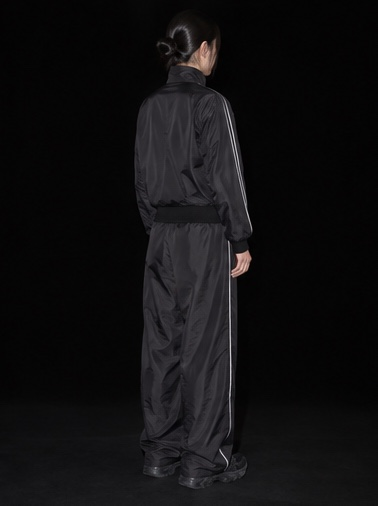
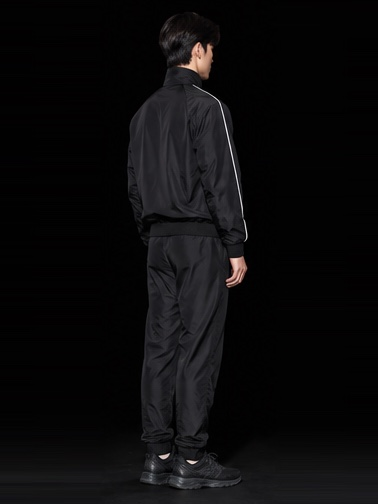
PRODUCT 360: 16-angle model frames with MEN/WOMEN toggle; drop unused mannequin frames

diff --git a/index.html b/index.html
@@ -567,7 +567,13 @@
   .fs-bpm{font-family:'Bebas Neue',sans-serif; font-size:clamp(44px,6vw,84px); line-height:0.9; color:var(--c);}
   .fs-bpm small{font-size:0.32em; letter-spacing:0.12em; margin-left:6px; color:var(--bone-dim);}
   .fs-ph{margin-top:8px; font-size:11px; letter-spacing:0.16em; color:var(--bone);}
-  .fs-grid{display:grid; grid-template-columns:repeat(3,minmax(0,1fr)); gap:20px; margin-top:40px;}
+  .fs-grid{display:grid; grid-template-columns:repeat(3,minmax(0,1fr)); gap:20px; margin-top:18px;}
+  .fs-sex{display:flex; justify-content:flex-end; gap:4px; margin-top:40px;}
+  .fs-sex button{all:unset; cursor:pointer; padding:7px 12px; border:1px solid var(--line); border-radius:999px;
+    font-size:10.5px; letter-spacing:0.16em; color:var(--bone-dim); transition:color 0.25s ease, border-color 0.25s ease, background 0.25s ease;}
+  .fs-sex button:hover{color:var(--bone);}
+  .fs-sex button.on{color:var(--off-black); background:var(--bone); border-color:var(--bone);}
+  .fs-sex button:focus-visible{outline:2px solid var(--bone); outline-offset:3px;}
   .fs-grid .prd{transition:opacity 0.4s ease, transform 0.4s ease;}
   .fs.pick .prd:not(.on){opacity:0.22;}
   .fs-grid .prd-stage{border-radius:4px; border-top:3px solid var(--c);}
@@ -1481,18 +1487,19 @@
           <button type="button" class="fs-stop" data-c="way" style="--c:#a25a9a"><div class="fs-bpm">110<small>BPM</small></div><div class="fs-ph">TO &amp; FROM</div></button>
           <button type="button" class="fs-stop" data-c="after" style="--c:#4f8fd6"><div class="fs-bpm">62<small>BPM</small></div><div class="fs-ph">AFTER SESSION</div></button>
         </div>
-        <div class="fs-grid">
+        <div class="fs-sex" role="group" aria-label="모델 착장"><button type="button" class="on" data-sex="m" aria-pressed="true">MEN</button><button type="button" data-sex="w" aria-pressed="false">WOMEN</button></div>
+          <div class="fs-grid">
           <figure class="prd" data-c="in" style="--c:var(--move-red)">
-            <div class="prd-stage night" role="img" aria-label="S2:U 심볼 반팔 티셔츠 블랙을 입은 모델, 천천히 360도 회전">
+            <div class="prd-stage night" role="img" aria-label="S2:U 심볼 반팔 티셔츠 블랙 착용 모델, 천천히 360도 회전">
               <div class="fs-tag"><span>Nº01</span><b>IN SESSION</b></div>
-              <div class="prd-360" data-frames="goods/assets/p360-mtee-#.jpg" data-wrap="0.33,0.67"></div>
+              <div class="prd-360" data-n="16" data-m="goods/assets/p360-mtee-#.jpg" data-w="goods/assets/p360-wtee-#.jpg" data-wrap="0.33,0.67"></div>
             </div>
             <figcaption><div class="fs-name">SYMBOL TEE<em>BLACK</em></div><p class="prd-d">땀이 마른 뒤에도 입는 티셔츠.</p></figcaption>
           </figure>
           <figure class="prd" data-c="way" style="--c:#a25a9a">
-            <div class="prd-stage night" role="img" aria-label="S2:U 트랙 자켓 블랙을 입은 모델, 천천히 360도 회전">
+            <div class="prd-stage night" role="img" aria-label="S2:U 트랙 자켓 블랙 착용 모델, 천천히 360도 회전">
               <div class="fs-tag"><span>Nº02</span><b>TO &amp; FROM</b></div>
-              <div class="prd-360" data-frames="goods/assets/p360-mjk-#.jpg" data-wrap="0.33,0.67"></div>
+              <div class="prd-360" data-n="16" data-m="goods/assets/p360-mjk-#.jpg" data-w="goods/assets/p360-wjk-#.jpg" data-wrap="0.33,0.67"></div>
             </div>
             <figcaption><div class="fs-name">TRACK JACKET<em>BLACK</em></div><p class="prd-d">세션에 가고, 세션에서 돌아오는 자켓.</p></figcaption>
           </figure>
@@ -2250,11 +2257,11 @@ ${pts}
       v.muted = true;
     });
   })();
-  /* ---- 프로덕트 360: 45도 간격 사진 8장. 사진마다 옷 몸통을 곡면 띠로 감아 실제로 ±22.5도씩 돌리고,
-     앞 사진이 +22.5도·다음 사진이 −22.5도로 같은 각도가 되는 순간에 잠깐 겹쳐 넘긴다 → 끊김 없이 계속 도는 회전 ---- */
+  /* ---- 프로덕트 360: 22.5도 간격 모델 사진 16장. 사진마다 몸통을 곡면 띠로 감아 ±11.25도씩 실제로 돌리고,
+     앞 사진과 다음 사진이 같은 각도가 되는 순간에 겹쳐 넘긴다 → 끊김 없이 계속 도는 회전. MEN/WOMEN은 같은 각도에서 바꿔 끼운다 ---- */
   (function(){
-    const N = 8, SEG = 1800, STEP = 45;      // 장 수, 한 장(45도)을 도는 시간(ms), 장 간격(도)
-    const STRIPS = 44, DEPTH = 0.9, OV = 1.2;
+    const SEG = 1000;                         // 한 장(22.5도)을 도는 시간(ms)
+    const STRIPS = 32, DEPTH = 0.9, OV = 1.2;
     const boxes = [...document.querySelectorAll('.prd-360')];
     if(!boxes.length) return;
     const ease = function(a, b, x){ x = Math.min(1, Math.max(0, (x - a) / (b - a))); return x * x * (3 - 2 * x); };
@@ -2289,26 +2296,40 @@ ${pts}
       }
       return f;
     }
-    function build(box){
-      const W = box.clientWidth, H = box.clientHeight;
-      if(!W || box._w === W || box._ready < N) return;
-      box._w = W; box.innerHTML = '';
-      box._f = box._src.map(function(src, k){ const f = wrap(src, box._e[k], W, H); box.appendChild(f); return f; });
+    function build(box, force){
+      const W = box.clientWidth, H = box.clientHeight, set = box._sets[box._sex];
+      if(!W || !set || set.ready < box._n || (!force && box._w === W && box._on === box._sex)) return;
+      box._w = W; box._on = box._sex; box.innerHTML = '';
+      box._f = set.src.map(function(src, k){ const f = wrap(src, set.e[k], W, H); f.style.display = 'none'; box.appendChild(f); return f; });
     }
-    boxes.forEach(function(box){
-      box._src = []; box._e = []; box._ready = 0; box._t = 0;
-      for(let k = 0; k < N; k++){
-        const src = box.dataset.frames.replace('#', k), im = new Image();
-        box._src[k] = src;
-        const fixed = box.dataset.wrap && box.dataset.wrap.split(',').map(Number);   // 배경이 있는 모델 사진은 몸 폭을 직접 지정
-        im.onload = function(){ box._e[k] = fixed || edges(im); box._ready++; build(box); };
+    function load(box, sex){                  // 한 착장(16장)을 불러오고, 다 오면 지금 각도 그대로 갈아 끼움
+      if(box._sets[sex]) return;
+      const set = box._sets[sex] = {src: [], e: [], ready: 0}, pat = box.dataset[sex];
+      const fixed = box.dataset.wrap && box.dataset.wrap.split(',').map(Number);   // 배경이 있는 모델 사진은 몸 폭을 직접 지정
+      for(let k = 0; k < box._n; k++){
+        const src = pat.replace('#', k), im = new Image();
+        set.src[k] = src;
+        im.onload = im.onerror = function(){ set.e[k] = fixed || edges(im); set.ready++; if(box._sex === sex) build(box, true); };
         im.src = src;
       }
+    }
+    boxes.forEach(function(box){
+      box._n = +box.dataset.n || 8; box._step = 360 / box._n;
+      box._sets = {}; box._sex = 'm'; box._t = 0;
+      load(box, 'm');
       if('ResizeObserver' in window) new ResizeObserver(function(){ build(box); }).observe(box);
       const st = box.parentElement;
       st.addEventListener('mouseenter', function(){ box._hold = true; });
       st.addEventListener('mouseleave', function(){ box._hold = false; });
     });
+    const sexBar = document.querySelector('.fs-sex');
+    if(sexBar) sexBar.addEventListener('click', function(e){
+      const b = e.target.closest('button[data-sex]'); if(!b) return;
+      sexBar.querySelectorAll('button').forEach(function(x){ const on = x === b; x.classList.toggle('on', on); x.setAttribute('aria-pressed', on); });
+      boxes.forEach(function(box){ box._sex = b.dataset.sex; load(box, box._sex); build(box, true); });
+    });
+    // 남자 착장이 다 뜨고 나면 여자 착장을 미리 받아 둠
+    window.addEventListener('load', function(){ setTimeout(function(){ boxes.forEach(function(box){ load(box, 'w'); }); }, 2500); });
     const still = window.matchMedia && matchMedia('(prefers-reduced-motion: reduce)').matches;
     let last = performance.now();
     (function tick(now){
@@ -2316,12 +2337,13 @@ ${pts}
       boxes.forEach(function(box){
         if(!box._f || !box.offsetParent) return;
         if(!box._hold && !still) box._t += dt;
+        const N = box._n, STEP = box._step;
         const p = box._t / SEG, i = Math.floor(p) % N, f = p - Math.floor(p), j = (i + 1) % N;
-        const mix = ease(0.36, 0.64, f);
+        const mix = ease(0.4, 0.6, f);
         box._f.forEach(function(el, k){
-          if(k === i){ el.style.opacity = 1; el.style.zIndex = 1; el.style.transform = 'rotateY(' + (-f * STEP) + 'deg)'; }
-          else if(k === j){ el.style.opacity = mix; el.style.zIndex = 2; el.style.transform = 'rotateY(' + ((1 - f) * STEP) + 'deg)'; }
-          else if(el.style.opacity !== '0'){ el.style.opacity = 0; }
+          if(k === i){ el.style.display = ''; el.style.opacity = 1; el.style.zIndex = 1; el.style.transform = 'rotateY(' + (-f * STEP) + 'deg)'; }
+          else if(k === j){ el.style.display = ''; el.style.opacity = mix; el.style.zIndex = 2; el.style.transform = 'rotateY(' + ((1 - f) * STEP) + 'deg)'; }
+          else if(el.style.display !== 'none'){ el.style.display = 'none'; }
         });
       });
       requestAnimationFrame(tick);
